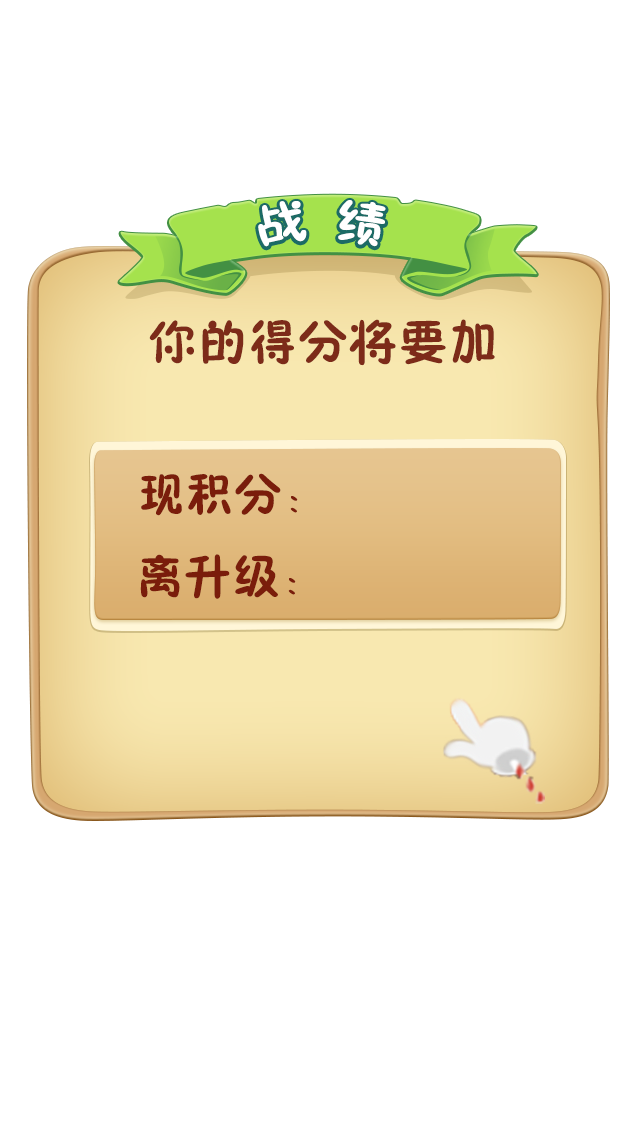
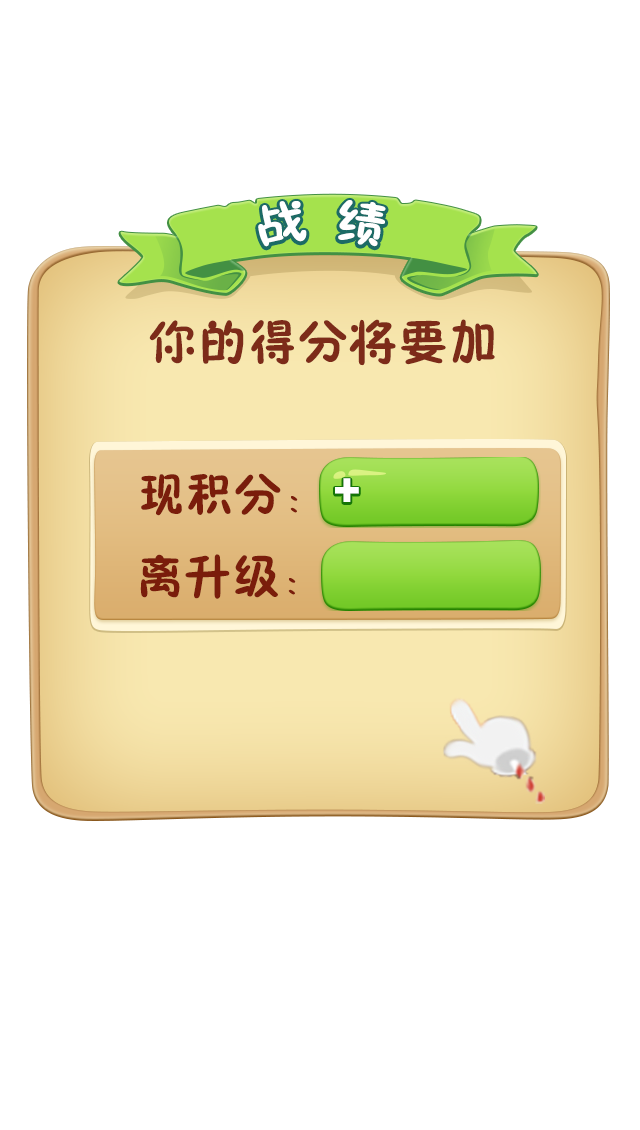
换了一幅图

Changed region(s): [[0.5, 0.4027, 0.8438, 0.5575]]

diff --git a/LittleKid/chinese chess/RootViewController.m b/LittleKid/chinese chess/RootViewController.m
@@ -514,13 +514,13 @@ static int seconds = 180;
     [imageview setFrame:CGRectMake(mainwidh/2 - image_width /2, 100, image_width, image_width*2 )];
     [self.view addSubview:imageview];
     
-    UILabel *ratiolabel = [[UILabel alloc]initWithFrame:CGRectMake(imageview.frame.origin.x + image_width/2 - 50, imageview.frame.origin.y +150, 100, 20)];
+    UILabel *ratiolabel = [[UILabel alloc]initWithFrame:CGRectMake(imageview.frame.origin.x + image_width/2 - 50, imageview.frame.origin.y +155, 100, 20)];
     ratiolabel.text = [NSString stringWithFormat:@"%d * %d倍",(int)increaseScore,self.ratio];
     ratiolabel.textColor = [UIColor greenColor];
     ratiolabel.textAlignment = UITextAlignmentCenter;
     [self.view addSubview:ratiolabel];
     
-    UILabel *nowscorelabel = [[UILabel alloc]initWithFrame:CGRectMake(imageview.frame.origin.x + image_width/2 , imageview.frame.origin.y +190, 100, 30)];
+    UILabel *nowscorelabel = [[UILabel alloc]initWithFrame:CGRectMake(imageview.frame.origin.x + image_width/2 +15, imageview.frame.origin.y +185, 100, 30)];
     int nowscore = [[RuntimeStatus instance].userInfo.score intValue] + (int)increaseScore *self.ratio;
     [RuntimeStatus instance].userInfo.score  = [NSNumber numberWithInt:nowscore];
     [[RuntimeStatus instance] saveUserInfo];
@@ -529,7 +529,7 @@ static int seconds = 180;
     nowscorelabel.textAlignment = UITextAlignmentLeft;
     [self.view addSubview:nowscorelabel];
     
-    UILabel *needscorelabel = [[UILabel alloc]initWithFrame:CGRectMake(imageview.frame.origin.x + image_width/2, imageview.frame.origin.y +220, 100, 30)];
+    UILabel *needscorelabel = [[UILabel alloc]initWithFrame:CGRectMake(imageview.frame.origin.x + image_width/2 +15, imageview.frame.origin.y +220, 100, 30)];
     int needscore = 10000- nowscore%10000;
     needscorelabel.text = [NSString stringWithFormat:@"%d",needscore];
     needscorelabel.textColor = [UIColor whiteColor];
@@ -548,7 +548,7 @@ static int seconds = 180;
 - (void)animationDidStop:(CAAnimation *)anim finished:(BOOL)flag
 {
     self.ratio = 1;
-    orign = orign - 0.1;
+    orign = orign + 0.05;
     if ((orign >= 0.0 && orign < (0.5/3.0)*2.0)||(orign >= 0.5 && orign < (0.5/3.0)*7.0)||(orign >= (0.5/3.0)*8.0 && orign < (0.5/3.0)*9.0)||(orign >= (0.5/3.0)*10.0 && orign < (0.5/3.0)*12.0))
     {
         self.ratio = 1;
